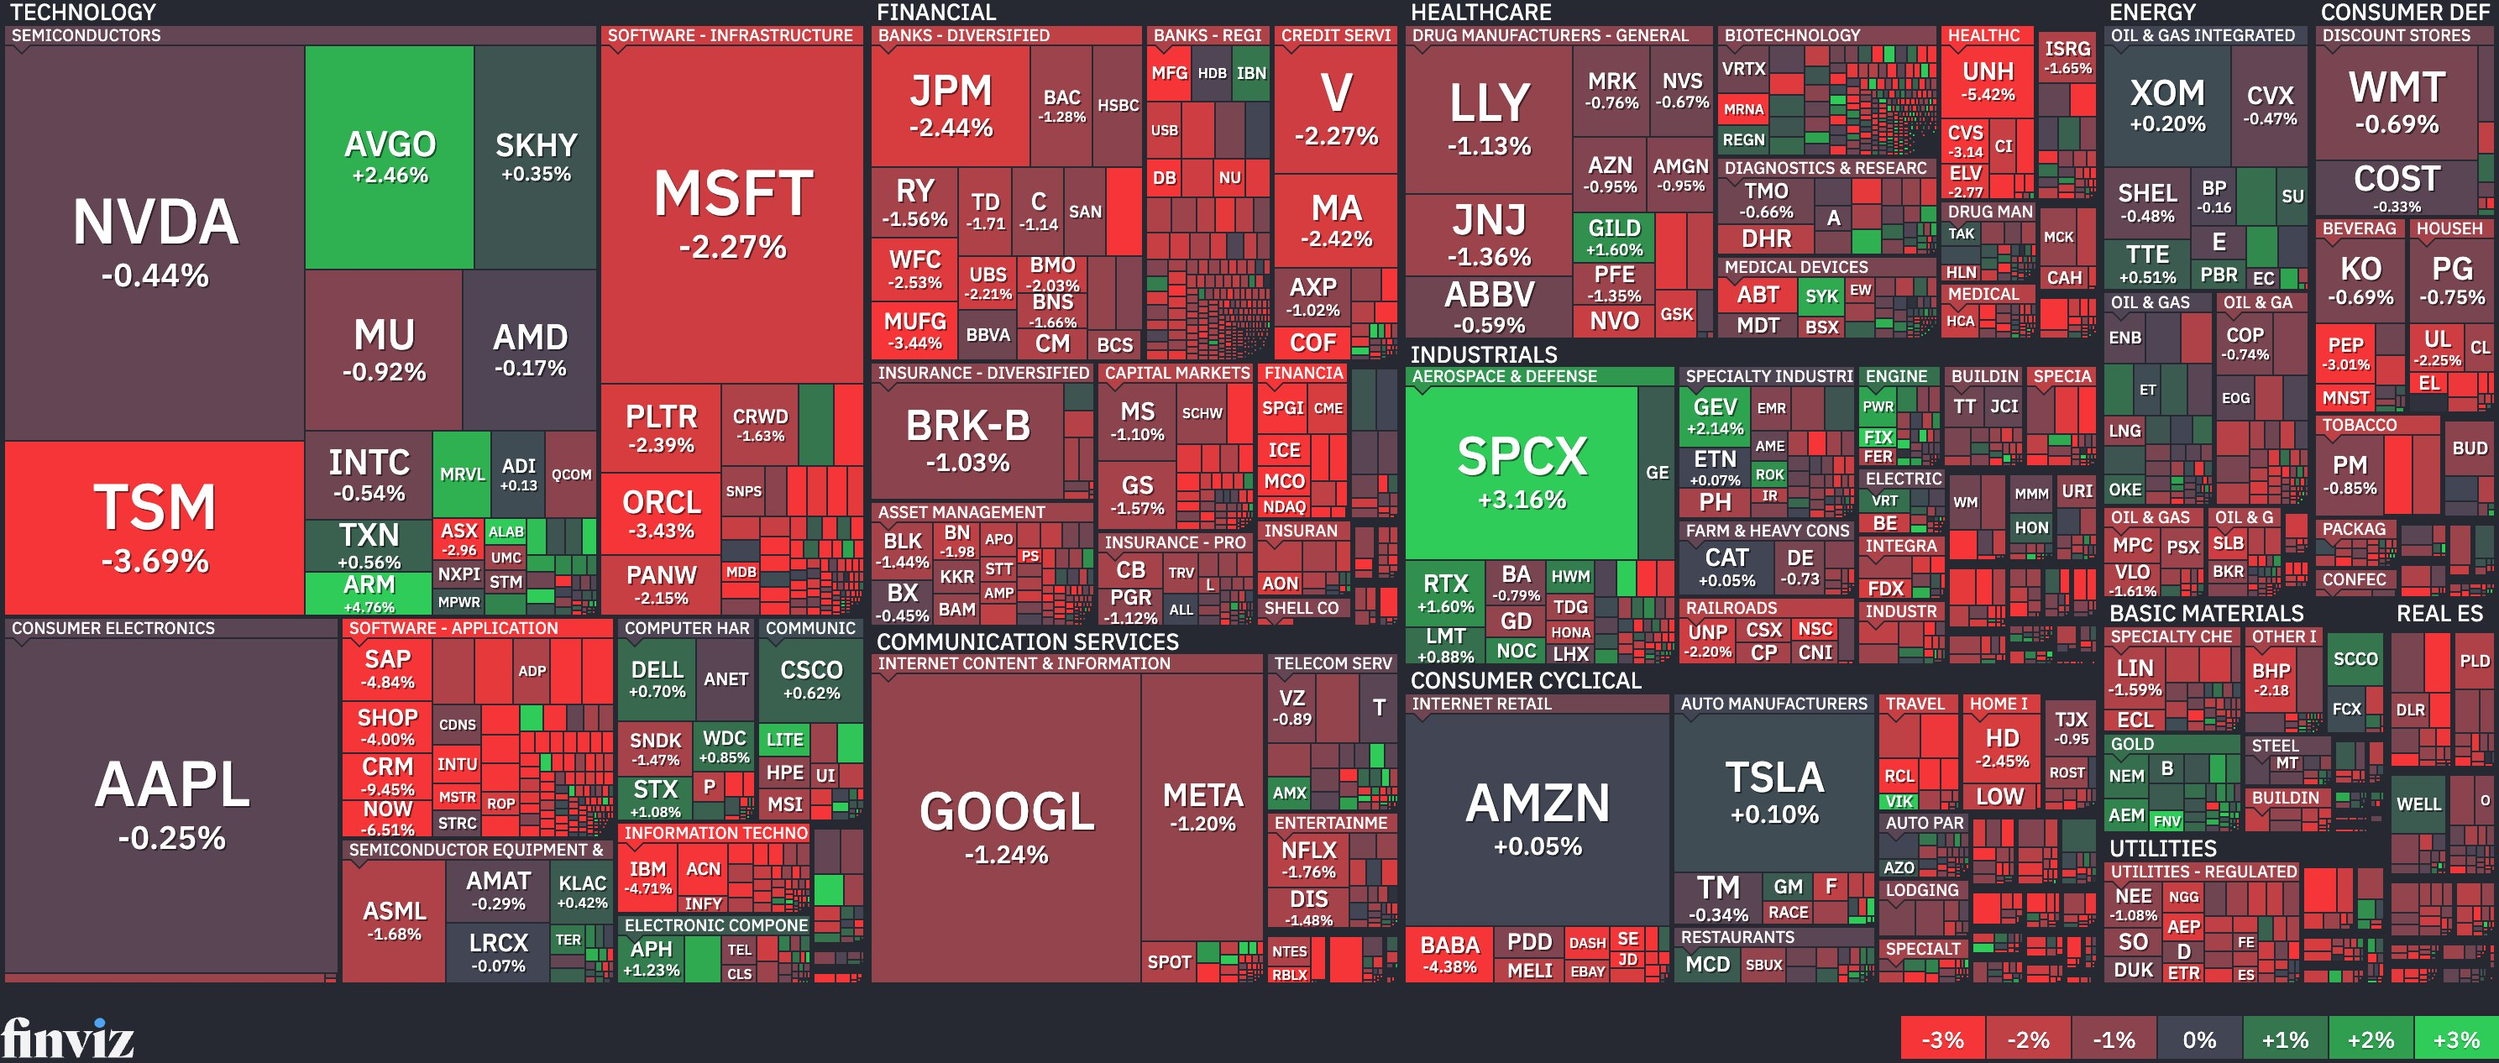
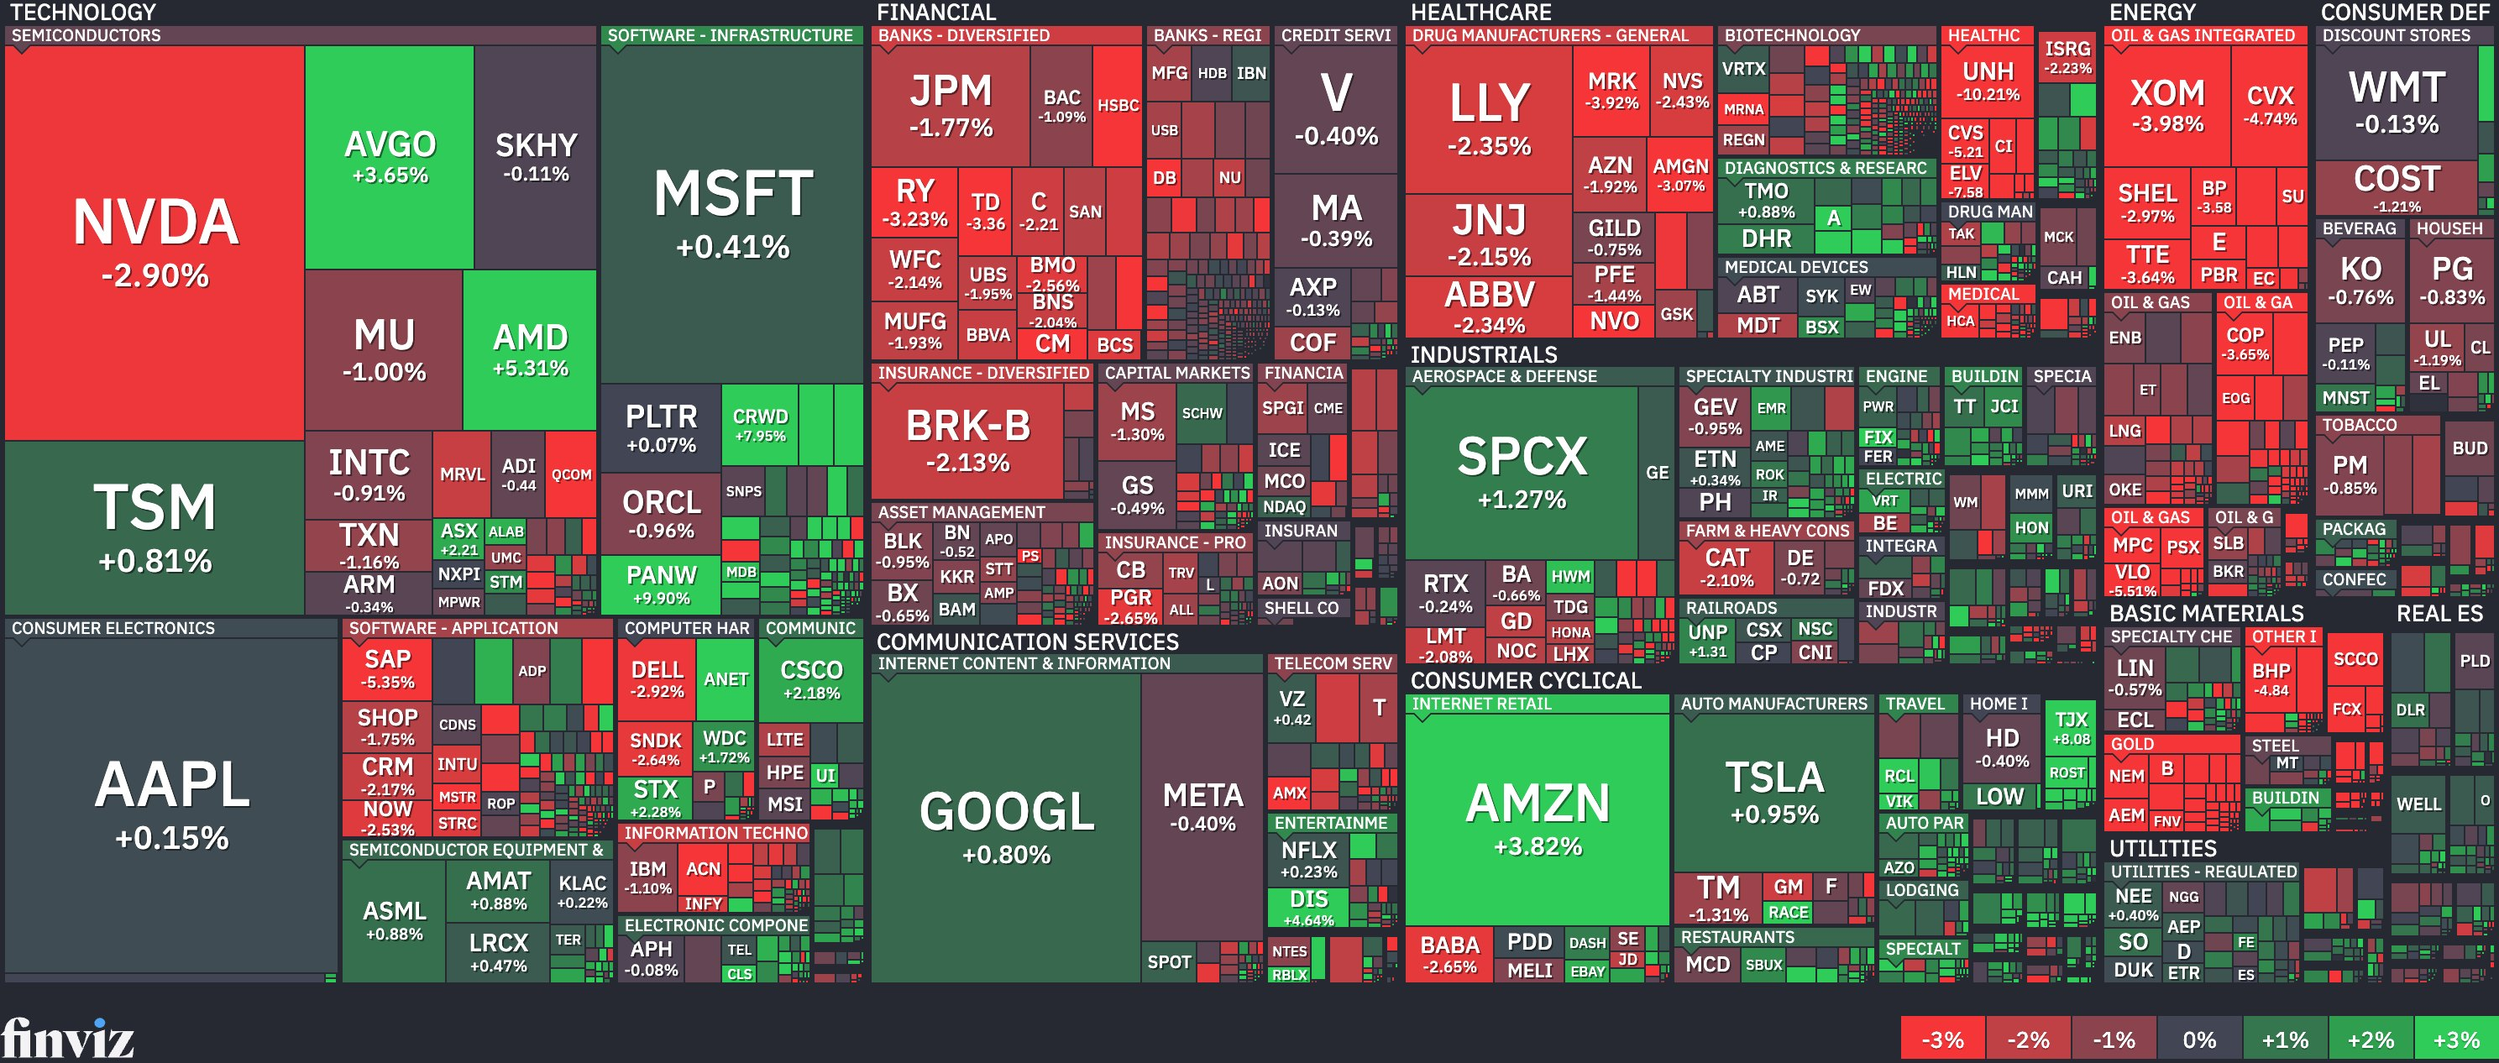
STOCK MAP 갱신 Wed NOV 18, 4:01 PM ET

diff --git a/index.html b/index.html
@@ -117,7 +117,7 @@ footer{margin-top:34px;font-size:12px;color:#7A867C;text-align:center;line-heigh
 <div class="hd"><div class="kicker">STRUCTURE &amp; BOTTLENECKS</div><h1>Report Vault</h1>
 <p>매크로·산업·기업 분석 기록을 모아 읽는 보고서 자료실.</p></div>
 <div class="board"><div class="bhd"><span class="bt">MARKET BOARD</span><span class="bu">11/19 06:00 KST 기준</span></div><div class="bgrid main"><div class="tile down"><div class="tl">DJIA</div><div class="tv">50,194.85</div><div class="tc">▼ −564.57<span class="tp">−1.11%</span></div><svg class="spk" viewBox="0 0 100 26" preserveAspectRatio="none" role="img" aria-label="최근 1개월 10-19→11-18 · 최저 50,089.71 · 최고 53,356.12 · -3.6%"><title>최근 1개월 10-19→11-18 · 최저 50,089.71 · 최고 53,356.12 · -3.6%</title><polygon points="0,26 0.0,11.4 4.5,7.8 9.1,5.4 13.6,5.3 18.2,9.7 22.7,8.7 27.3,8.6 31.8,7.9 36.4,8.8 40.9,12.7 45.5,11.2 50.0,12.6 54.5,2.0 59.1,14.3 63.6,15.9 68.2,8.5 72.7,9.6 77.3,7.9 81.8,9.1 86.4,8.8 90.9,13.8 95.5,19.5 100.0,24.0 100,26" fill="#C0442E" fill-opacity=".10"/><polyline points="0.0,11.4 4.5,7.8 9.1,5.4 13.6,5.3 18.2,9.7 22.7,8.7 27.3,8.6 31.8,7.9 36.4,8.8 40.9,12.7 45.5,11.2 50.0,12.6 54.5,2.0 59.1,14.3 63.6,15.9 68.2,8.5 72.7,9.6 77.3,7.9 81.8,9.1 86.4,8.8 90.9,13.8 95.5,19.5 100.0,24.0" fill="none" stroke="#C0442E" stroke-width="1.6" vector-effect="non-scaling-stroke" stroke-linejoin="round"/></svg><span class="ta">TradingView · 3:59 PM EST</span></div><div class="tile down"><div class="tl">S&amp;P 500</div><div class="tv">7,322.54</div><div class="tc">▼ −17.99<span class="tp">−0.25%</span></div><svg class="spk" viewBox="0 0 100 26" preserveAspectRatio="none" role="img" aria-label="최근 1개월 10-19→11-18 · 최저 7,303.98 · 최고 7,757.17 · -5.0%"><title>최근 1개월 10-19→11-18 · 최저 7,303.98 · 최고 7,757.17 · -5.0%</title><polygon points="0,26 0.0,5.2 4.5,4.2 9.1,2.0 13.6,6.6 18.2,8.5 22.7,5.9 27.3,3.7 31.8,2.6 36.4,3.8 40.9,10.6 45.5,12.5 50.0,11.1 54.5,5.3 59.1,21.6 63.6,20.5 68.2,12.1 72.7,13.5 77.3,8.7 81.8,10.0 86.4,11.5 90.9,18.5 95.5,22.2 100.0,24.0 100,26" fill="#C0442E" fill-opacity=".10"/><polyline points="0.0,5.2 4.5,4.2 9.1,2.0 13.6,6.6 18.2,8.5 22.7,5.9 27.3,3.7 31.8,2.6 36.4,3.8 40.9,10.6 45.5,12.5 50.0,11.1 54.5,5.3 59.1,21.6 63.6,20.5 68.2,12.1 72.7,13.5 77.3,8.7 81.8,10.0 86.4,11.5 90.9,18.5 95.5,22.2 100.0,24.0" fill="none" stroke="#C0442E" stroke-width="1.6" vector-effect="non-scaling-stroke" stroke-linejoin="round"/></svg><span class="ta">TradingView · 3:59 PM EST</span></div><div class="tile up"><div class="tl">NASDAQ</div><div class="tv">24,417.376</div><div class="tc">▲ +88.993<span class="tp">+0.37%</span></div><svg class="spk" viewBox="0 0 100 26" preserveAspectRatio="none" role="img" aria-label="최근 1개월 10-19→11-18 · 최저 24,315.00 · 최고 26,702.86 · -8.0%"><title>최근 1개월 10-19→11-18 · 최저 24,315.00 · 최고 26,702.86 · -8.0%</title><polygon points="0,26 0.0,4.5 4.5,4.6 9.1,2.0 13.6,8.4 18.2,8.9 22.7,6.9 27.3,4.1 31.8,3.4 36.4,6.8 40.9,13.7 45.5,16.2 50.0,14.3 54.5,10.9 59.1,24.0 63.6,21.6 68.2,15.4 72.7,17.1 77.3,13.4 81.8,14.3 86.4,16.4 90.9,22.2 95.5,23.9 100.0,23.9 100,26" fill="#C0442E" fill-opacity=".10"/><polyline points="0.0,4.5 4.5,4.6 9.1,2.0 13.6,8.4 18.2,8.9 22.7,6.9 27.3,4.1 31.8,3.4 36.4,6.8 40.9,13.7 45.5,16.2 50.0,14.3 54.5,10.9 59.1,24.0 63.6,21.6 68.2,15.4 72.7,17.1 77.3,13.4 81.8,14.3 86.4,16.4 90.9,22.2 95.5,23.9 100.0,23.9" fill="none" stroke="#C0442E" stroke-width="1.6" vector-effect="non-scaling-stroke" stroke-linejoin="round"/></svg><span class="ta">TradingView · 3:59 PM EST</span></div><div class="tile up"><div class="tl">RUSSELL 2000</div><div class="tv">2,714.41</div><div class="tc">▲ +12.54<span class="tp">+0.46%</span></div><svg class="spk" viewBox="0 0 100 26" preserveAspectRatio="none" role="img" aria-label="최근 1개월 10-19→11-18 · 최저 2,701.87 · 최고 2,859.22 · -0.5%"><title>최근 1개월 10-19→11-18 · 최저 2,701.87 · 최고 2,859.22 · -0.5%</title><polygon points="0,26 0.0,20.3 4.5,14.0 9.1,12.9 13.6,12.5 18.2,13.6 22.7,12.2 27.3,7.6 31.8,6.0 36.4,2.0 40.9,8.6 45.5,9.5 50.0,8.5 54.5,2.3 59.1,20.1 63.6,16.7 68.2,4.6 72.7,7.3 77.3,3.8 81.8,10.4 86.4,11.6 90.9,18.3 95.5,24.0 100.0,22.1 100,26" fill="#C0442E" fill-opacity=".10"/><polyline points="0.0,20.3 4.5,14.0 9.1,12.9 13.6,12.5 18.2,13.6 22.7,12.2 27.3,7.6 31.8,6.0 36.4,2.0 40.9,8.6 45.5,9.5 50.0,8.5 54.5,2.3 59.1,20.1 63.6,16.7 68.2,4.6 72.7,7.3 77.3,3.8 81.8,10.4 86.4,11.6 90.9,18.3 95.5,24.0 100.0,22.1" fill="none" stroke="#C0442E" stroke-width="1.6" vector-effect="non-scaling-stroke" stroke-linejoin="round"/></svg><span class="ta">TradingView · 3:59 PM EST</span></div><div class="tile down"><div class="tl">US 10-YR</div><div class="tv">5.064%</div><div class="tc">▼ −0.045</div><svg class="spk" viewBox="0 0 100 26" preserveAspectRatio="none" role="img" aria-label="최근 1개월 10-19→11-18 · 최저 4.84 · 최고 5.15 · -1.2%"><title>최근 1개월 10-19→11-18 · 최저 4.84 · 최고 5.15 · -1.2%</title><polygon points="0,26 0.0,3.2 4.5,4.6 9.1,2.6 13.6,15.9 18.2,13.5 22.7,13.7 27.3,13.2 31.8,9.6 36.4,13.5 40.9,17.6 45.5,20.0 50.0,16.0 54.5,20.0 59.1,24.0 63.6,22.5 68.2,22.1 72.7,13.9 77.3,12.8 81.8,5.5 86.4,2.0 90.9,4.3 95.5,5.5 100.0,7.7 100,26" fill="#C0442E" fill-opacity=".10"/><polyline points="0.0,3.2 4.5,4.6 9.1,2.6 13.6,15.9 18.2,13.5 22.7,13.7 27.3,13.2 31.8,9.6 36.4,13.5 40.9,17.6 45.5,20.0 50.0,16.0 54.5,20.0 59.1,24.0 63.6,22.5 68.2,22.1 72.7,13.9 77.3,12.8 81.8,5.5 86.4,2.0 90.9,4.3 95.5,5.5 100.0,7.7" fill="none" stroke="#C0442E" stroke-width="1.6" vector-effect="non-scaling-stroke" stroke-linejoin="round"/></svg><span class="ta">TradingView · 3:58 PM EST</span></div><div class="tile down"><div class="tl">US 2-YR</div><div class="tv">4.800%</div><div class="tc">▼ −0.006</div><svg class="spk" viewBox="0 0 100 26" preserveAspectRatio="none" role="img" aria-label="최근 1개월 10-19→11-16 · 최저 4.46 · 최고 4.88 · +1.3%"><title>최근 1개월 10-19→11-16 · 최저 4.46 · 최고 4.88 · +1.3%</title><polygon points="0,26 0.0,7.8 5.3,6.7 10.5,5.7 15.8,14.0 21.1,12.0 26.3,12.5 31.6,11.4 36.8,13.0 42.1,16.1 47.4,18.8 52.6,17.2 57.9,16.1 63.2,17.7 68.4,24.0 73.7,21.4 78.9,18.8 84.2,9.9 89.5,3.0 94.7,2.0 100.0,4.6 100,26" fill="#1F8A5B" fill-opacity=".10"/><polyline points="0.0,7.8 5.3,6.7 10.5,5.7 15.8,14.0 21.1,12.0 26.3,12.5 31.6,11.4 36.8,13.0 42.1,16.1 47.4,18.8 52.6,17.2 57.9,16.1 63.2,17.7 68.4,24.0 73.7,21.4 78.9,18.8 84.2,9.9 89.5,3.0 94.7,2.0 100.0,4.6" fill="none" stroke="#1F8A5B" stroke-width="1.6" vector-effect="non-scaling-stroke" stroke-linejoin="round"/></svg><span class="ta">TradingView · 3:59 PM EST</span></div><div class="tile down"><div class="tl">GOLD</div><div class="tv">3,733.10</div><div class="tc">▼ −131.10<span class="tp">−3.39%</span></div><svg class="spk" viewBox="0 0 100 26" preserveAspectRatio="none" role="img" aria-label="최근 1개월 10-19→11-18 · 최저 3,758.10 · 최고 4,160.10 · -9.7%"><title>최근 1개월 10-19→11-18 · 최저 3,758.10 · 최고 4,160.10 · -9.7%</title><polygon points="0,26 0.0,2.0 4.5,3.0 9.1,2.6 13.6,7.5 18.2,10.3 22.7,8.7 27.3,6.7 31.8,7.9 36.4,9.0 40.9,16.3 45.5,12.4 50.0,14.0 54.5,6.8 59.1,4.6 63.6,6.7 68.2,4.5 72.7,9.1 77.3,10.7 81.8,17.0 86.4,17.0 90.9,18.8 95.5,18.2 100.0,24.0 100,26" fill="#C0442E" fill-opacity=".10"/><polyline points="0.0,2.0 4.5,3.0 9.1,2.6 13.6,7.5 18.2,10.3 22.7,8.7 27.3,6.7 31.8,7.9 36.4,9.0 40.9,16.3 45.5,12.4 50.0,14.0 54.5,6.8 59.1,4.6 63.6,6.7 68.2,4.5 72.7,9.1 77.3,10.7 81.8,17.0 86.4,17.0 90.9,18.8 95.5,18.2 100.0,24.0" fill="none" stroke="#C0442E" stroke-width="1.6" vector-effect="non-scaling-stroke" stroke-linejoin="round"/></svg><span class="ta">TradingView · 3:59 PM EST</span></div><div class="tile down"><div class="tl">OIL</div><div class="tv">82.06</div><div class="tc">▼ −3.95<span class="tp">−4.59%</span></div><svg class="spk" viewBox="0 0 100 26" preserveAspectRatio="none" role="img" aria-label="최근 1개월 10-19→11-18 · 최저 82.94 · 최고 104.12 · -20.0%"><title>최근 1개월 10-19→11-18 · 최저 82.94 · 최고 104.12 · -20.0%</title><polygon points="0,26 0.0,2.5 4.5,4.4 9.1,9.2 13.6,6.8 18.2,2.9 22.7,4.5 27.3,6.4 31.8,3.4 36.4,4.2 40.9,2.0 45.5,10.0 50.0,10.3 54.5,18.6 59.1,16.1 63.6,15.8 68.2,19.9 72.7,20.8 77.3,20.3 81.8,18.0 86.4,18.2 90.9,21.1 95.5,20.8 100.0,24.0 100,26" fill="#C0442E" fill-opacity=".10"/><polyline points="0.0,2.5 4.5,4.4 9.1,9.2 13.6,6.8 18.2,2.9 22.7,4.5 27.3,6.4 31.8,3.4 36.4,4.2 40.9,2.0 45.5,10.0 50.0,10.3 54.5,18.6 59.1,16.1 63.6,15.8 68.2,19.9 72.7,20.8 77.3,20.3 81.8,18.0 86.4,18.2 90.9,21.1 95.5,20.8 100.0,24.0" fill="none" stroke="#C0442E" stroke-width="1.6" vector-effect="non-scaling-stroke" stroke-linejoin="round"/></svg><span class="ta">TradingView · 3:59 PM EST</span></div></div><div class="bgrid risk"><div class="tile down"><div class="tl">F&amp;G</div><div class="tv">25</div><div class="tc">▼ −1<span class="tg fg-ef">극단적 공포</span></div><svg class="spk" viewBox="0 0 100 26" preserveAspectRatio="none" role="img" aria-label="최근 1개월 10-19→11-18 · 최저 16.69 · 최고 40.34 · +25.6%"><title>최근 1개월 10-19→11-18 · 최저 16.69 · 최고 40.34 · +25.6%</title><polygon points="0,26 0.0,21.4 4.5,12.8 9.1,11.4 13.6,20.9 18.2,24.0 22.7,11.8 27.3,8.9 31.8,7.5 36.4,10.9 40.9,15.0 45.5,21.5 50.0,17.6 54.5,7.7 59.1,20.9 63.6,16.9 68.2,10.2 72.7,4.8 77.3,6.1 81.8,2.0 86.4,4.8 90.9,10.6 95.5,15.4 100.0,16.7 100,26" fill="#1F8A5B" fill-opacity=".10"/><polyline points="0.0,21.4 4.5,12.8 9.1,11.4 13.6,20.9 18.2,24.0 22.7,11.8 27.3,8.9 31.8,7.5 36.4,10.9 40.9,15.0 45.5,21.5 50.0,17.6 54.5,7.7 59.1,20.9 63.6,16.9 68.2,10.2 72.7,4.8 77.3,6.1 81.8,2.0 86.4,4.8 90.9,10.6 95.5,15.4 100.0,16.7" fill="none" stroke="#1F8A5B" stroke-width="1.6" vector-effect="non-scaling-stroke" stroke-linejoin="round"/></svg><span class="ta">CNN · 11/18</span></div><div class="tile down"><div class="tl">VIX</div><div class="tv">24.62</div><div class="tc">▼ −0.84<span class="tp">−3.30%</span></div><svg class="spk" viewBox="0 0 100 26" preserveAspectRatio="none" role="img" aria-label="최근 1개월 10-19→11-18 · 최저 16.61 · 최고 28.18 · +33.9%"><title>최근 1개월 10-19→11-18 · 최저 16.61 · 최고 28.18 · +33.9%</title><polygon points="0,26 0.0,20.5 4.5,22.7 9.1,23.9 13.6,19.4 18.2,18.6 22.7,20.6 27.3,22.3 31.8,23.4 36.4,22.9 40.9,18.7 45.5,15.4 50.0,16.0 54.5,24.0 59.1,2.0 63.6,6.8 68.2,17.7 72.7,18.6 77.3,22.3 81.8,20.0 86.4,18.9 90.9,12.0 95.5,7.2 100.0,8.6 100,26" fill="#1F8A5B" fill-opacity=".10"/><polyline points="0.0,20.5 4.5,22.7 9.1,23.9 13.6,19.4 18.2,18.6 22.7,20.6 27.3,22.3 31.8,23.4 36.4,22.9 40.9,18.7 45.5,15.4 50.0,16.0 54.5,24.0 59.1,2.0 63.6,6.8 68.2,17.7 72.7,18.6 77.3,22.3 81.8,20.0 86.4,18.9 90.9,12.0 95.5,7.2 100.0,8.6" fill="none" stroke="#1F8A5B" stroke-width="1.6" vector-effect="non-scaling-stroke" stroke-linejoin="round"/></svg><span class="ta">TradingView · 3:59 PM EST</span></div><div class="tile down"><div class="tl">BITCOIN</div><div class="tv">62,503</div><div class="tc">▼ −2,370<span class="tp">−3.65%</span></div><svg class="spk" viewBox="0 0 100 26" preserveAspectRatio="none" role="img" aria-label="최근 1개월 10-17→11-18 · 최저 62,559.02 · 최고 84,011.97 · -23.1%"><title>최근 1개월 10-17→11-18 · 최저 62,559.02 · 최고 84,011.97 · -23.1%</title><polygon points="0,26 0.0,4.7 3.1,4.0 6.2,4.2 9.4,3.1 12.5,2.0 15.6,4.8 18.8,5.0 21.9,5.3 25.0,6.1 28.1,6.1 31.2,5.3 34.4,4.8 37.5,8.4 40.6,9.0 43.8,8.7 46.9,7.9 50.0,9.5 53.1,8.8 56.2,5.7 59.4,10.3 62.5,10.5 65.6,10.5 68.8,11.7 71.9,11.0 75.0,12.6 78.1,12.3 81.2,15.0 84.4,18.2 87.5,22.4 90.6,21.2 93.8,21.6 96.9,21.6 100.0,24.0 100,26" fill="#C0442E" fill-opacity=".10"/><polyline points="0.0,4.7 3.1,4.0 6.2,4.2 9.4,3.1 12.5,2.0 15.6,4.8 18.8,5.0 21.9,5.3 25.0,6.1 28.1,6.1 31.2,5.3 34.4,4.8 37.5,8.4 40.6,9.0 43.8,8.7 46.9,7.9 50.0,9.5 53.1,8.8 56.2,5.7 59.4,10.3 62.5,10.5 65.6,10.5 68.8,11.7 71.9,11.0 75.0,12.6 78.1,12.3 81.2,15.0 84.4,18.2 87.5,22.4 90.6,21.2 93.8,21.6 96.9,21.6 100.0,24.0" fill="none" stroke="#C0442E" stroke-width="1.6" vector-effect="non-scaling-stroke" stroke-linejoin="round"/></svg><span class="ta">TradingView · 3:59 PM EST</span></div><div class="tile down"><div class="tl">USD/KRW</div><div class="tv">1,332.94</div><div class="tc">▼ −1.45<span class="tp">−0.11%</span></div><svg class="spk" viewBox="0 0 100 26" preserveAspectRatio="none" role="img" aria-label="최근 1개월 10-19→11-18 · 최저 1,321.76 · 최고 1,362.70 · -0.1%"><title>최근 1개월 10-19→11-18 · 최저 1,321.76 · 최고 1,362.70 · -0.1%</title><polygon points="0,26 0.0,17.7 4.5,19.6 9.1,22.8 13.6,21.9 18.2,21.7 22.7,24.0 27.3,22.4 31.8,21.3 36.4,14.0 40.9,15.3 45.5,22.0 50.0,11.6 54.5,12.6 59.1,14.2 63.6,5.4 68.2,2.0 72.7,12.1 77.3,13.2 81.8,16.2 86.4,17.5 90.9,17.8 95.5,16.5 100.0,18.3 100,26" fill="#C0442E" fill-opacity=".10"/><polyline points="0.0,17.7 4.5,19.6 9.1,22.8 13.6,21.9 18.2,21.7 22.7,24.0 27.3,22.4 31.8,21.3 36.4,14.0 40.9,15.3 45.5,22.0 50.0,11.6 54.5,12.6 59.1,14.2 63.6,5.4 68.2,2.0 72.7,12.1 77.3,13.2 81.8,16.2 86.4,17.5 90.9,17.8 95.5,16.5 100.0,18.3" fill="none" stroke="#C0442E" stroke-width="1.6" vector-effect="non-scaling-stroke" stroke-linejoin="round"/></svg><span class="ta">TradingView · 3:59 PM EST</span></div><div class="tile up"><div class="tl">DOLLAR INDEX</div><div class="tv">103.78</div><div class="tc">▲ +0.18<span class="tp">+0.17%</span></div><svg class="spk" viewBox="0 0 100 26" preserveAspectRatio="none" role="img" aria-label="최근 1개월 10-19→11-18 · 최저 101.51 · 최고 103.83 · +1.8%"><title>최근 1개월 10-19→11-18 · 최저 101.51 · 최고 103.83 · +1.8%</title><polygon points="0,26 0.0,19.5 4.5,21.9 9.1,21.4 13.6,23.1 18.2,21.2 22.7,19.7 27.3,16.3 31.8,17.6 36.4,19.0 40.9,20.5 45.5,21.7 50.0,20.6 54.5,24.0 59.1,23.6 63.6,16.5 68.2,22.7 72.7,17.2 77.3,10.7 81.8,8.3 86.4,6.0 90.9,4.7 95.5,5.2 100.0,2.0 100,26" fill="#1F8A5B" fill-opacity=".10"/><polyline points="0.0,19.5 4.5,21.9 9.1,21.4 13.6,23.1 18.2,21.2 22.7,19.7 27.3,16.3 31.8,17.6 36.4,19.0 40.9,20.5 45.5,21.7 50.0,20.6 54.5,24.0 59.1,23.6 63.6,16.5 68.2,22.7 72.7,17.2 77.3,10.7 81.8,8.3 86.4,6.0 90.9,4.7 95.5,5.2 100.0,2.0" fill="none" stroke="#1F8A5B" stroke-width="1.6" vector-effect="non-scaling-stroke" stroke-linejoin="round"/></svg><span class="ta">TradingView · 3:59 PM EST</span></div><div class="tile down"><div class="tl">RPONTSYD</div><div class="tv">$0.000B</div><div class="tc">▼ −0.102</div><svg class="spk" viewBox="0 0 100 26" preserveAspectRatio="none" role="img" aria-label="최근 1개월 10-19→11-18 · 최저 0.00 · 최고 0.10 · -100.0%"><title>최근 1개월 10-19→11-18 · 최저 0.00 · 최고 0.10 · -100.0%</title><polygon points="0,26 0.0,21.6 4.8,24.0 9.5,24.0 14.3,23.8 19.0,24.0 23.8,23.6 28.6,23.8 33.3,23.6 38.1,21.6 42.9,24.0 47.6,23.6 52.4,24.0 57.1,24.0 61.9,24.0 66.7,24.0 71.4,23.4 76.2,23.6 81.0,23.8 85.7,24.0 90.5,23.6 95.2,2.0 100.0,24.0 100,26" fill="#C0442E" fill-opacity=".10"/><polyline points="0.0,21.6 4.8,24.0 9.5,24.0 14.3,23.8 19.0,24.0 23.8,23.6 28.6,23.8 33.3,23.6 38.1,21.6 42.9,24.0 47.6,23.6 52.4,24.0 57.1,24.0 61.9,24.0 66.7,24.0 71.4,23.4 76.2,23.6 81.0,23.8 85.7,24.0 90.5,23.6 95.2,2.0 100.0,24.0" fill="none" stroke="#C0442E" stroke-width="1.6" vector-effect="non-scaling-stroke" stroke-linejoin="round"/></svg><span class="ta">FRED · 11/18</span></div></div></div>
-<div class="smap"><div class="bhd"><span class="bt">STOCK MAP</span><span class="bu">finviz · Tue NOV 17, 7:18 PM ET 기준</span></div><a href="https://finviz.com/map?t=sec_all" target="_blank" rel="noopener noreferrer"><img src="stockmap/stock_map.jpg?v=1794961120" alt="S&amp;P 섹터 지도(finviz)" loading="lazy"></a></div>
+<div class="smap"><div class="bhd"><span class="bt">STOCK MAP</span><span class="bu">finviz · Wed NOV 18, 4:01 PM ET 기준</span></div><a href="https://finviz.com/map?t=sec_all" target="_blank" rel="noopener noreferrer"><img src="stockmap/stock_map.jpg?v=1795035681" alt="S&amp;P 섹터 지도(finviz)" loading="lazy"></a></div>
 <div class="launch"><div class="bhd"><span class="bt">DASHBOARDS</span></div><div class="lgrid"><a class="lbtn" href="https://gaemi-street-journal.github.io/secz-star-map/" target="_blank" rel="noopener noreferrer"><span class="li">✦</span><span class="lt"><b>SECZ 경쟁·협업 별 지도</b><small>시청자 공개판 · 생애주기 9단계 · 새 창</small></span><span class="la">→</span></a><a class="lbtn" href="reports/2026-11-18_iren-infrastructure-globe.html"><span class="li">◎</span><span class="lt"><b>IREN 데이터센터 지구본</b><small>사이트·정치 규제 반영 · 시간 탭 · 최신 11/18</small></span><span class="la">→</span></a><a class="lbtn" href="reports/iren-infrastructure.html"><span class="li">▦</span><span class="lt"><b>IREN 인프라 대시보드</b><small>부지 × 단계 색 칸 · 매일 원장에서 생성 · 고정 주소</small></span><span class="la">→</span></a><a class="lbtn" href="reports/iren-financials.html"><span class="li">▤</span><span class="lt"><b>IREN 재무 대시보드</b><small>분기 공시판 · FY26 확정 · FY27 전망 · 자금조달</small></span><span class="la">→</span></a><a class="lbtn" href="reports/2026-10-12_ai-money-flow-map.html"><span class="li">≈</span><span class="lt"><b>AI 돈의 흐름 지도</b><small>v0.3.1 · 광고주 노드 · 5층 접기 · 자금 원장 · 회수 게이지 2.0</small></span><span class="la">→</span></a><a class="lbtn" href="reports/2026-11-18_daily-brief.html"><span class="li">▤</span><span class="lt"><b>Daily-briefing</b><small>Skill-Daily 통합 보고서 · 최신 11/18</small></span><span class="la">→</span></a></div></div>
 <div class="layout">
 <aside id="nav"><button class="nav all active" data-kind="all"><span class="nm">전체</span><span class="ct">1409</span></button>
